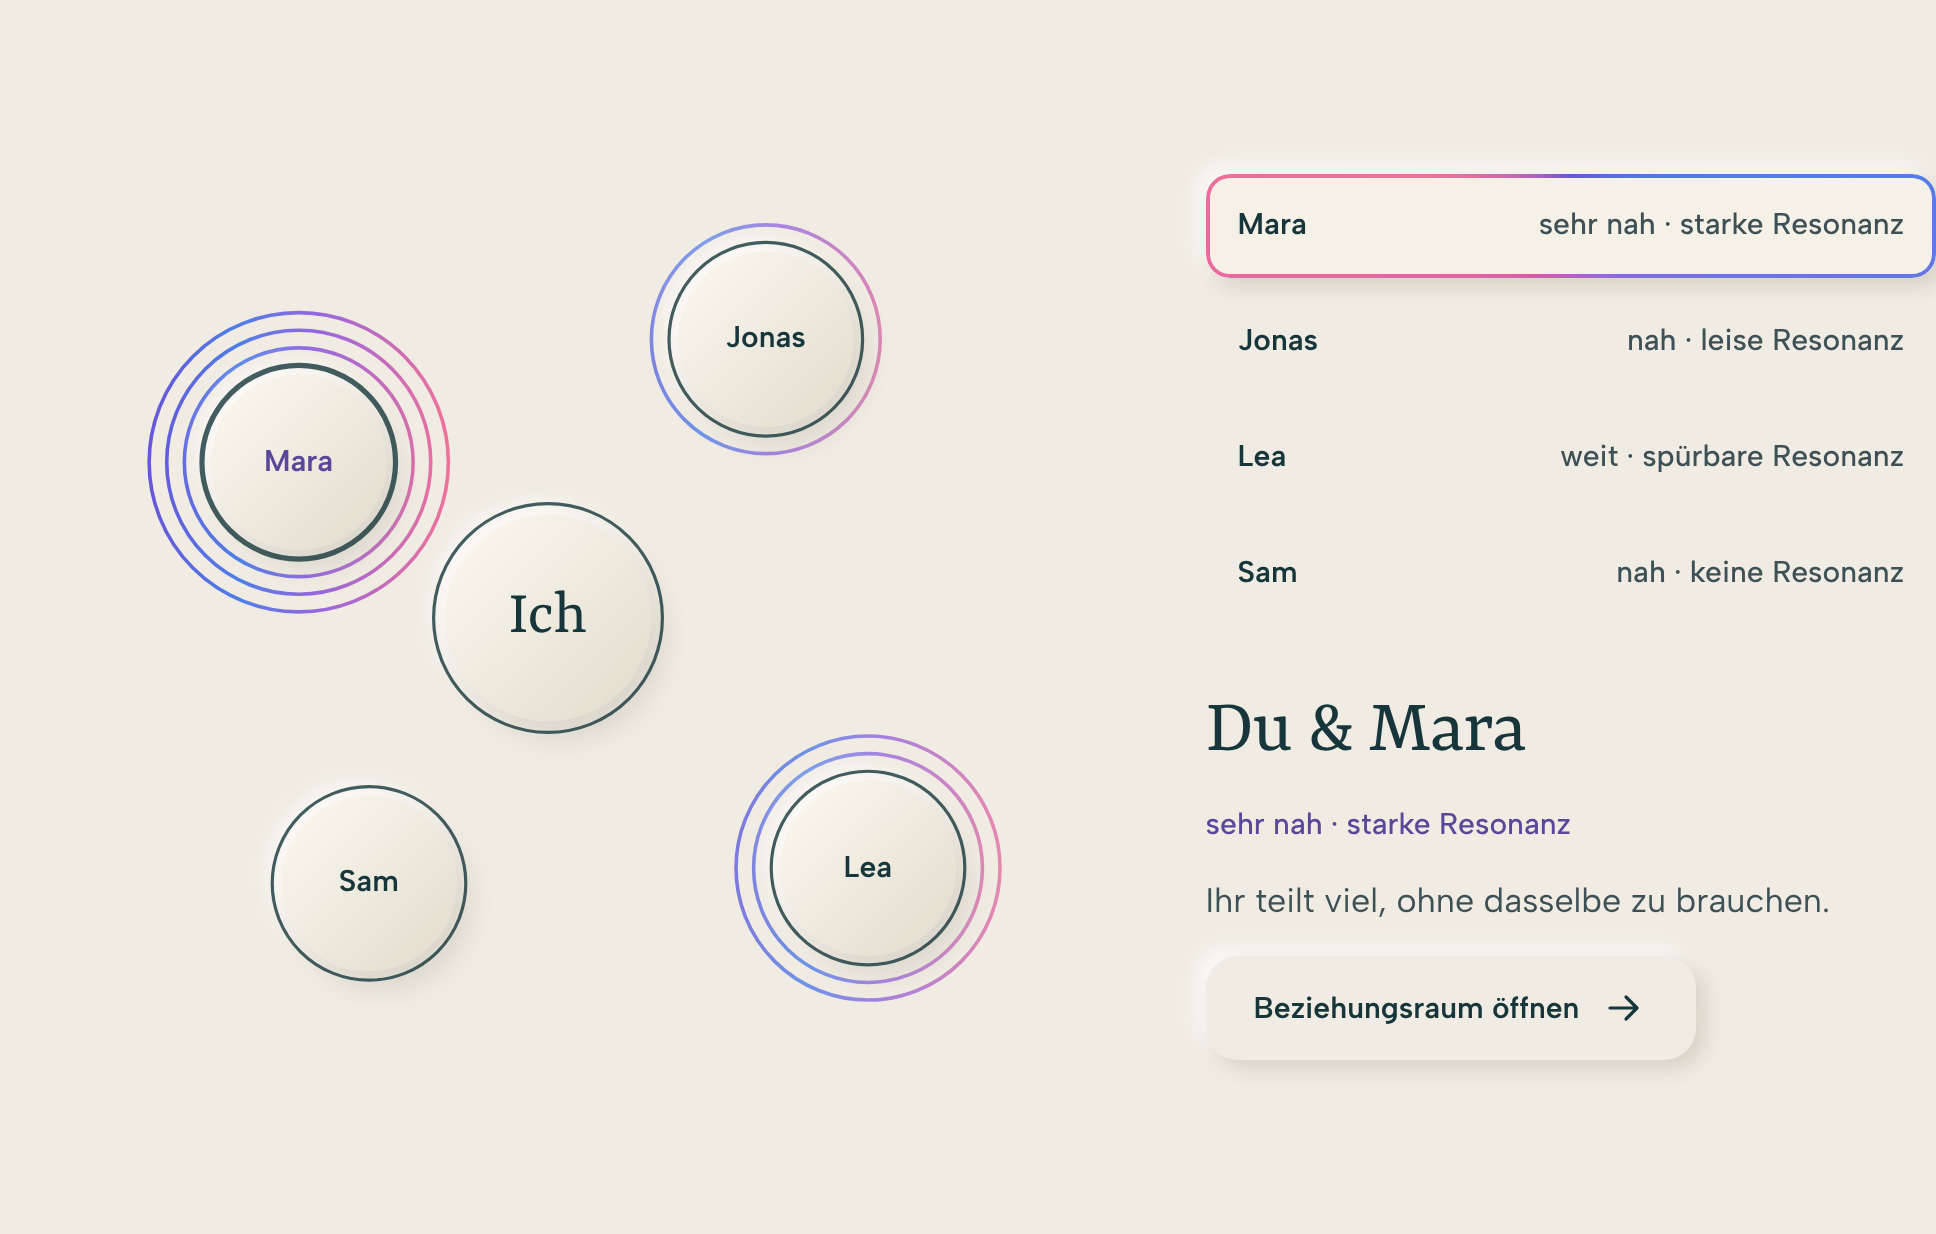
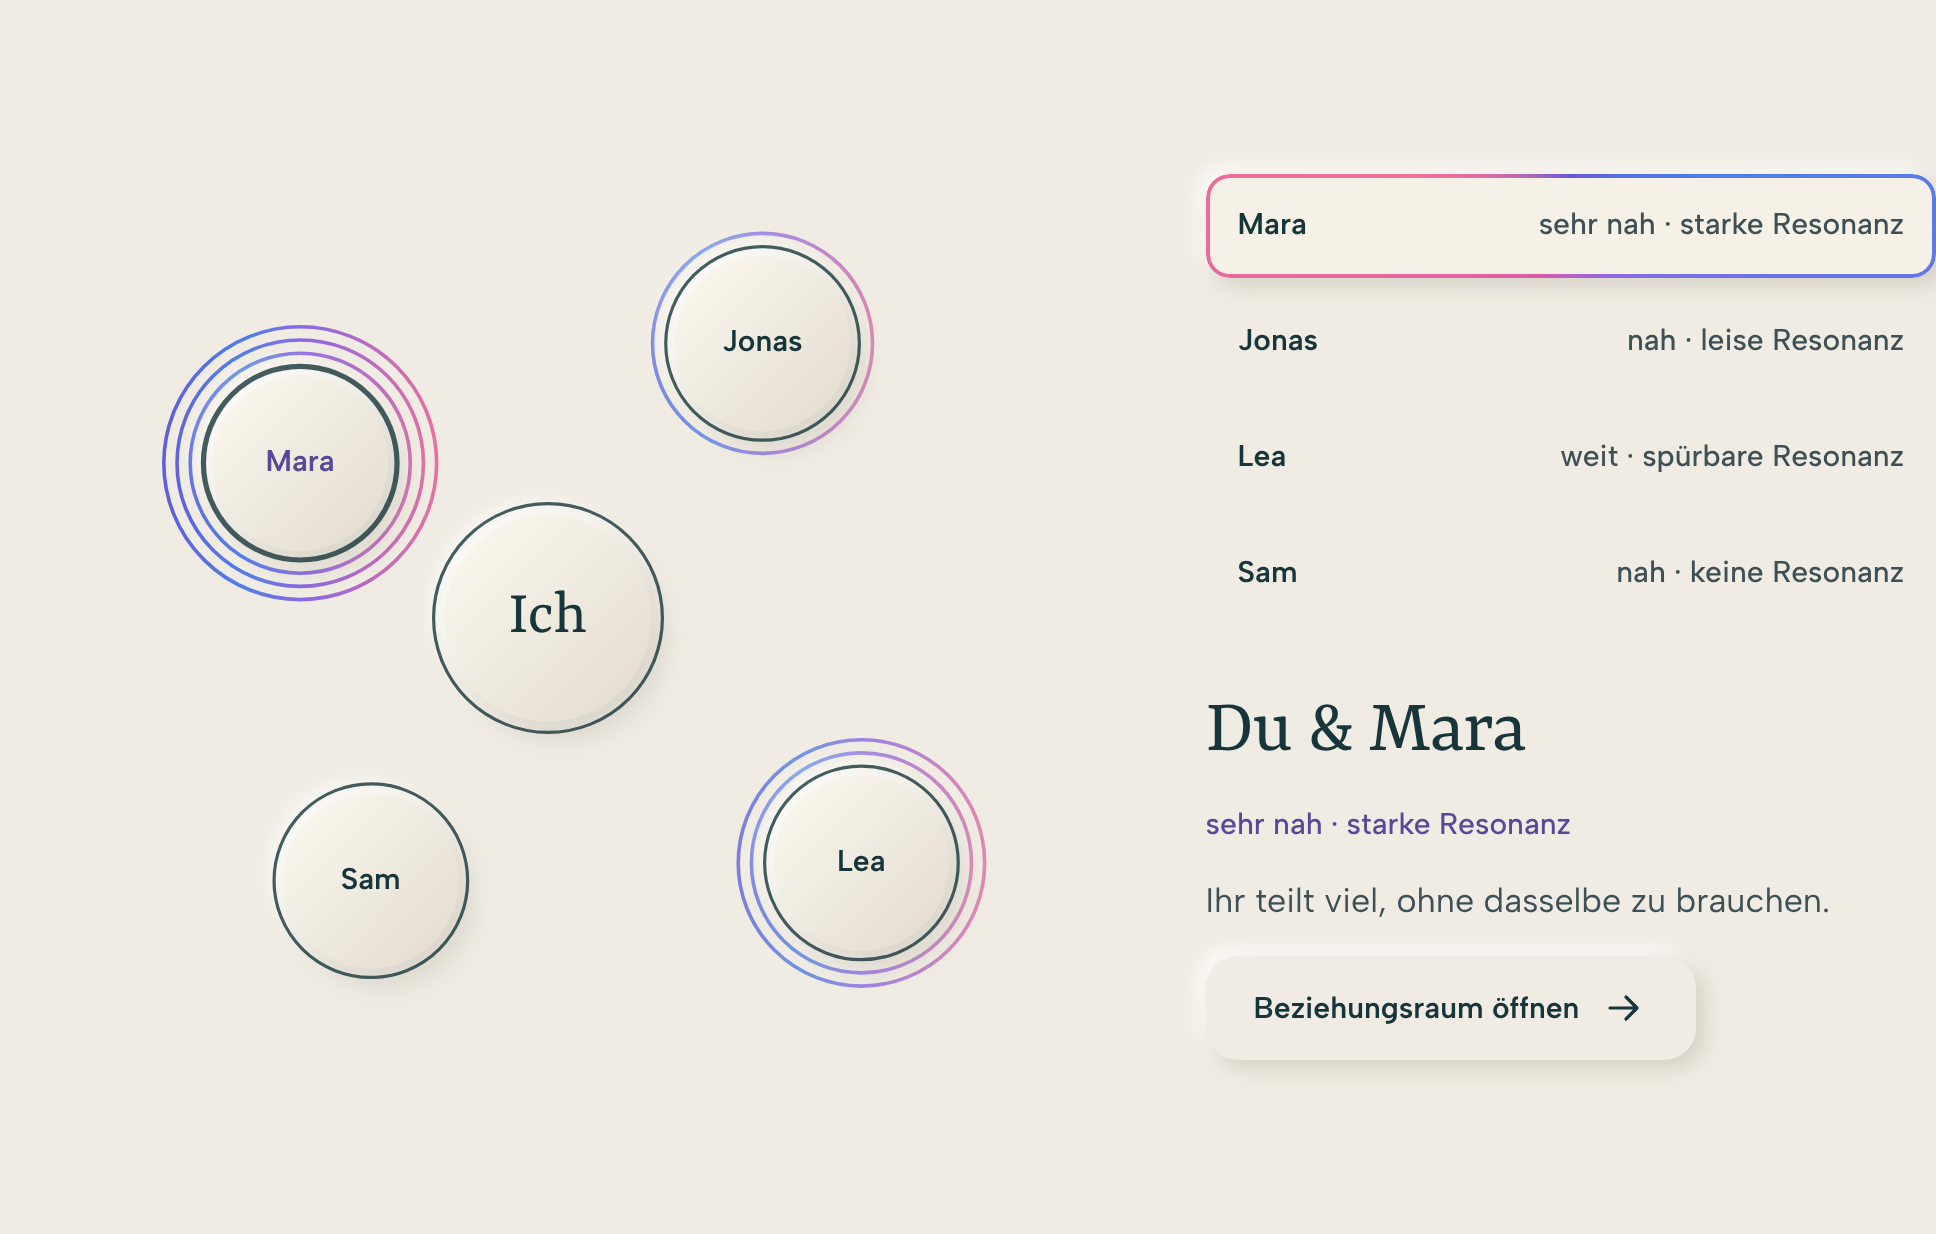
Umfeld im Hochformat: Linien bleiben im Bild
Claude-Session: https://claude.ai/code/session_01GcUU3Qg4dj9oPnZ4iDHoTB

diff --git a/components/umfeld/umfeld.js b/components/umfeld/umfeld.js
@@ -16,9 +16,10 @@
 (function () {
   'use strict';
   var NS = 'http://www.w3.org/2000/svg';
+  /* ring: Abstand der Linien um die Person. Im Hochformat enger, damit sie im Bild bleiben. */
   var LAYOUTS = {
-    wide: { W: 720, H: 600, CX: 360, CY: 300, ME: 62, R: 46, base: 150, k: 1.1, edge: 330 },
-    tall: { W: 400, H: 560, CX: 200, CY: 280, ME: 52, R: 44, base: 120, k: 0.85, edge: 260 }
+    wide: { W: 720, H: 600, CX: 360, CY: 300, ME: 62, R: 46, base: 150, k: 1.1, edge: 330, ring: 8 },
+    tall: { W: 400, H: 560, CX: 200, CY: 280, ME: 52, R: 44, base: 120, k: 0.8, edge: 260, ring: 6 }
   };
   var PEOPLE = [
     { name: 'Mara', angle: -58, proximity: 84, resonance: 86, note: 'Ihr teilt viel, ohne dasselbe zu brauchen.' },
@@ -84,7 +85,7 @@
           defs.appendChild(stroke);
         }
         for (var k = 1; k <= level; k++) {
-          var ring = el('circle', { cx: x, cy: y, r: L.R + 8 * k, class: 'umfeld__ring', stroke: 'url(#' + uid + '-g' + i + ')', 'stroke-width': 1.8, 'data-ring': '' });
+          var ring = el('circle', { cx: x, cy: y, r: L.R + L.ring * k, class: 'umfeld__ring', stroke: 'url(#' + uid + '-g' + i + ')', 'stroke-width': 1.8, 'data-ring': '' });
           rings.appendChild(ring); ringList.push(ring);
         }
         var disc = el('circle', { cx: x, cy: y, r: L.R - 4, fill: 'url(#' + uid + '-relief)', class: 'relief-disc' });
